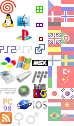
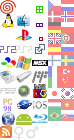
Added new platforms: Android, Web and DB-PG
+ Fixed makefile

I haven't been able to properly test this yet as a bug[1] in PostgreSQL
9.0.4 is preventing me from editing release entries.

[1] http://archives.postgresql.org/pgsql-bugs/2011-08/msg00119.php

diff --git a/data/style.css b/data/style.css
@@ -802,11 +802,12 @@ a .icons { cursor: pointer }
 .icons.gba { background-position:   0px -70px; }
 .icons.ps3 { background-position:   0px -84px; }
 .icons.p98 { background-position:   0px -98px; }
-.icons.feed { background-position:  0px -112px; }
+.icons.web { background-position:   0px -112px; }
+.icons.feed { background-position:  0px -126px; }
 
 .icons.gen.f,
-.icons.gen.b { background-position: -12px -112px; }
-.icons.gen.m { background-position: -26px -112px; }
+.icons.gen.b { background-position: -12px -126px; }
+.icons.gen.m { background-position: -26px -126px; }
 
 .icons.dvd { background-position: -16px   0px; }
 .icons.mac { background-position: -16px -14px; }
@@ -816,6 +817,7 @@ a .icons { cursor: pointer }
 .icons.wii { background-position: -16px -70px; }
 .icons.xb3 { background-position: -16px -84px; }
 .icons.sat { background-position: -16px -98px; }
+.icons.and { background-position: -16px -112px; }
 
 .icons.rtcomplete { background-position: -32px   0px; }
 .icons.rtpartial  { background-position: -32px -14px; }
@@ -825,6 +827,7 @@ a .icons { cursor: pointer }
 .icons.nes { background-position: -32px -70px; }
 .icons.dos { background-position: -32px -84px; }
 .icons.ios { background-position: -32px -98px; }
+.icons.bdp { background-position: -32px -112px; }
 
 .icons.cs  { background-position: -48px   0px; }
 .icons.da  { background-position: -48px -11px; }
